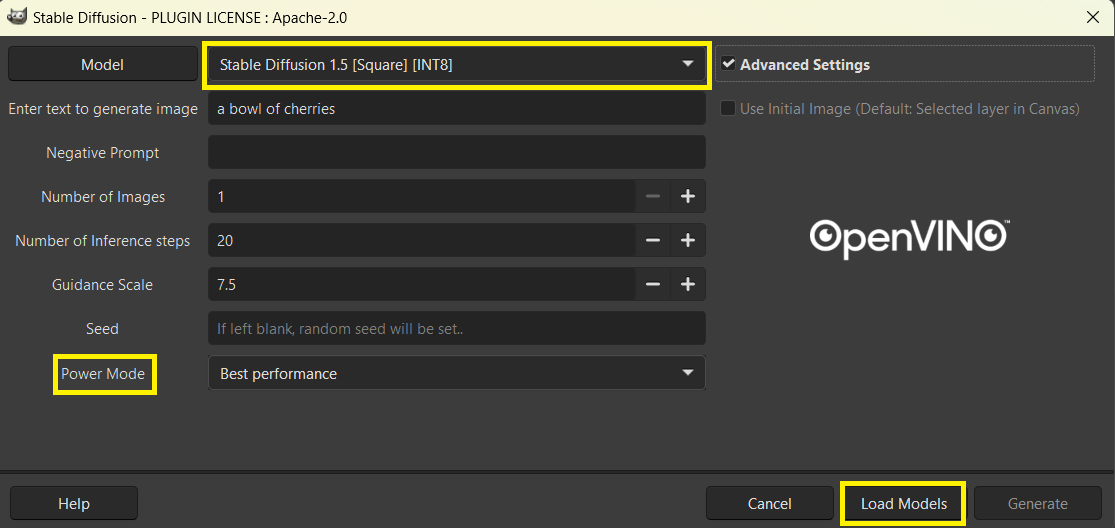
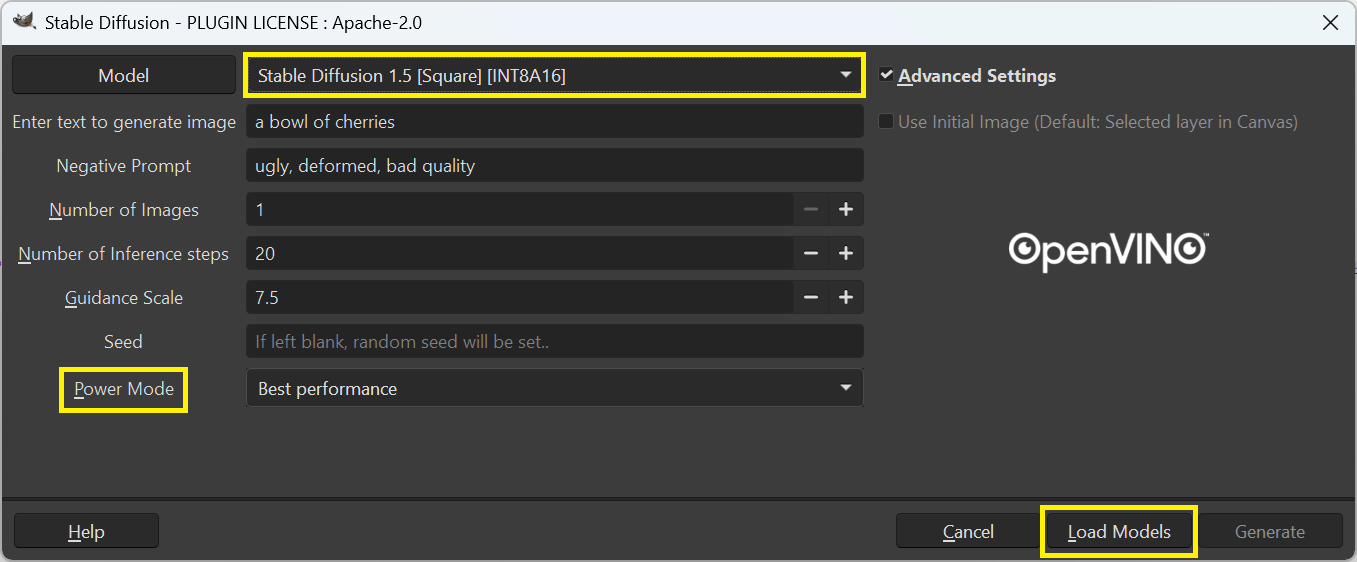
Update Windows guide to show INT8A16 model selection

diff --git a/Docs/user_guide_for_windows_users.md b/Docs/user_guide_for_windows_users.md
@@ -148,14 +148,14 @@ You can now simply open Gimp from the start menu as you would any normal Windows
     ![](figs/stable-diffusion_model4.png)
     
     >**Notes:**
-    > - The downloaded models include FP16 and INT8 precision
+    > - The downloaded models include INT8, INT8A16, and FP16 precision
     > - Weights is saved at `C:\Users\<user_name>\openvino-ai-plugins-gimp\weights`.
 
 
 
-## Execute Stable-Diffusion – Stable Diffusion 1.5 INT8
+## Execute Stable-Diffusion – Stable Diffusion 1.5 INT8A16
 
-Please follow below steps to execute Stable-Diffusion - Stable Diffusion 1.5 INT8. For other features, please refer to [OpenVINO™ Image Generator Plugin with Stable Diffusion](https://github.com/intel/openvino-ai-plugins-gimp/tree/main?tab=readme-ov-file#openvino-image-generator-plugin-with-stable-diffusion) section.
+Please follow below steps to execute Stable-Diffusion - Stable Diffusion 1.5 INT8A16. For other features, please refer to [OpenVINO™ Image Generator Plugin with Stable Diffusion](https://github.com/intel/openvino-ai-plugins-gimp/tree/main?tab=readme-ov-file#openvino-image-generator-plugin-with-stable-diffusion) section.
 
 - Following previous section to launch GIMP
 
